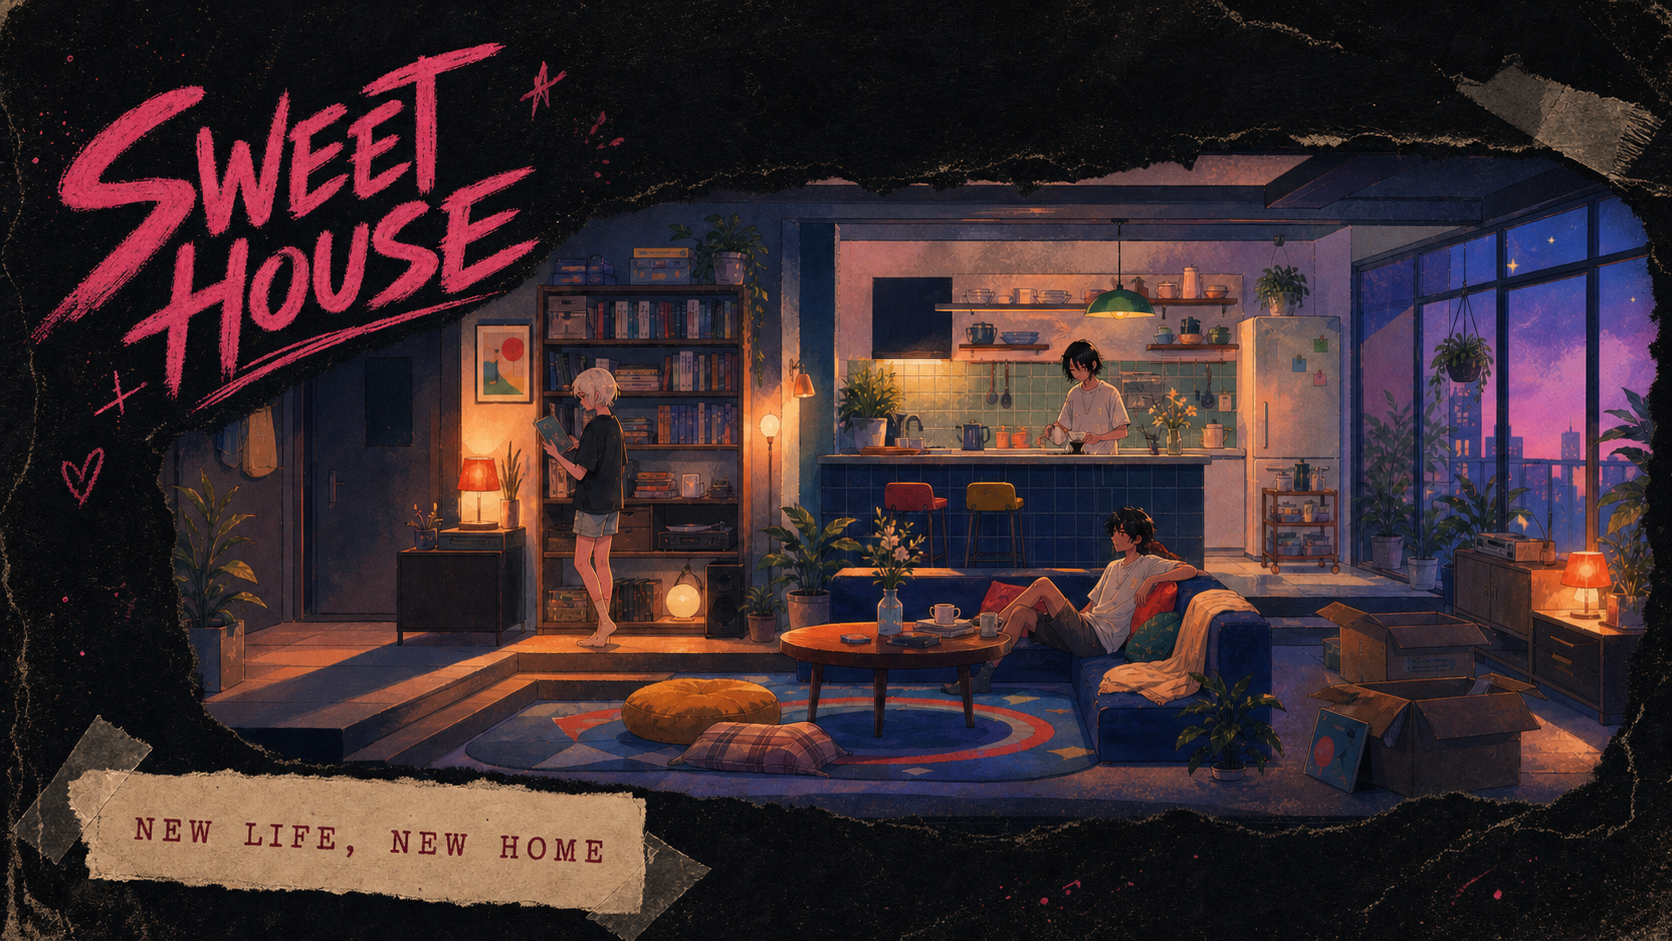
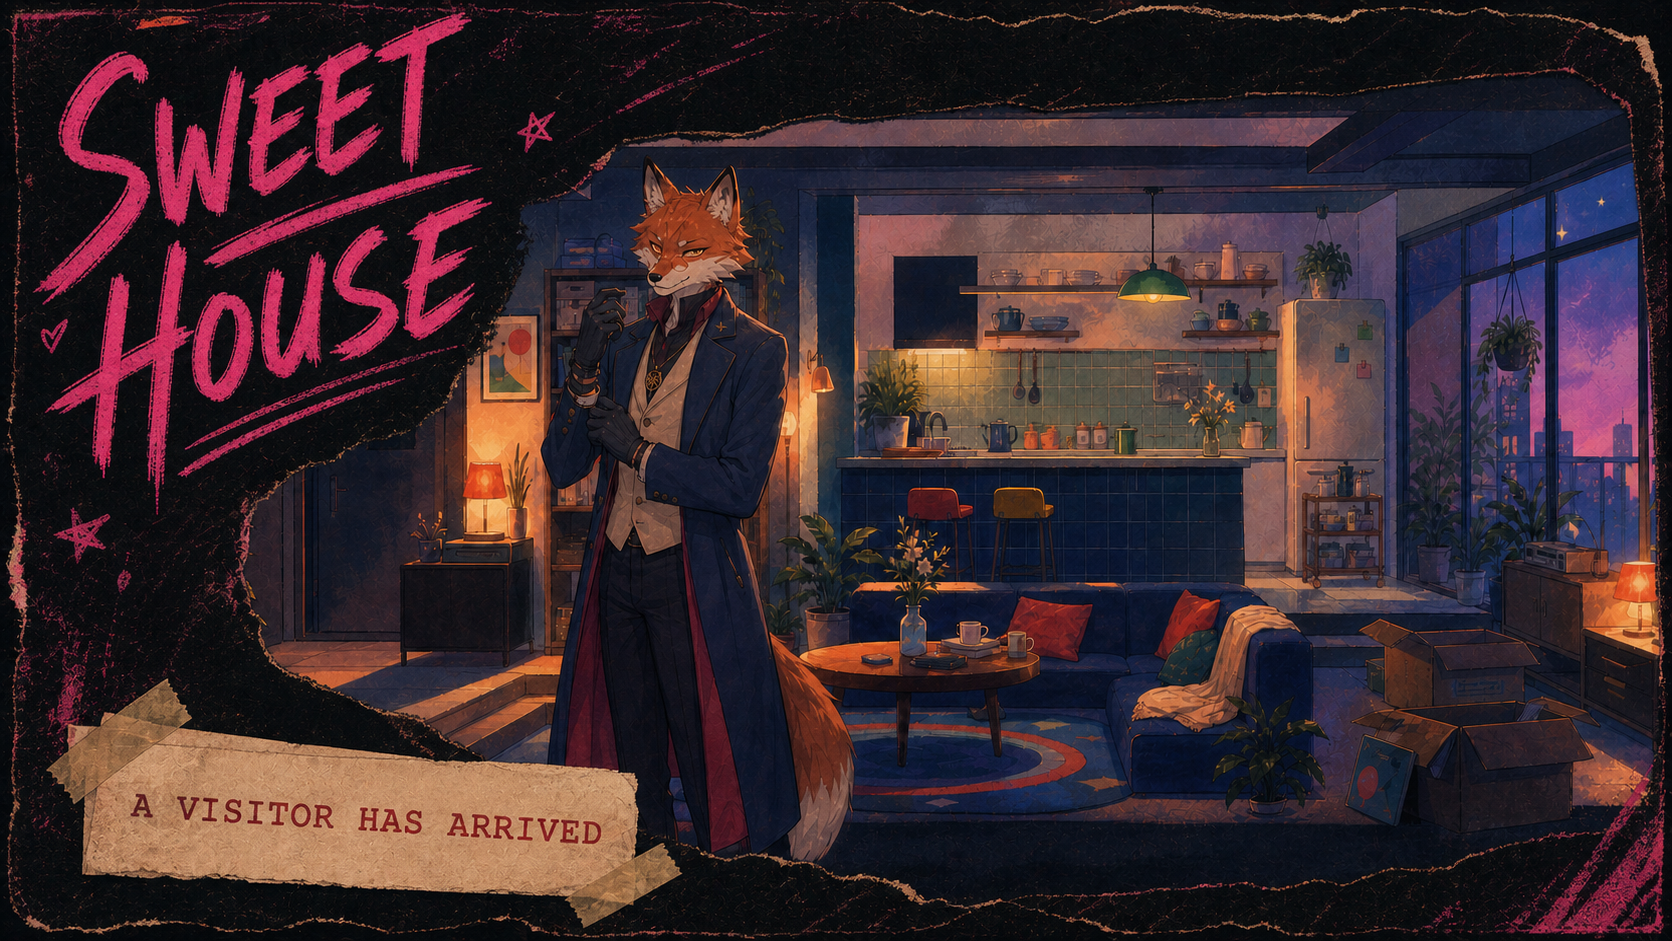
Add full visitor arrival experience

diff --git a/app/page.tsx b/app/page.tsx
@@ -22,6 +22,19 @@ const rooms = [
 
 const guests = [
   {
+    id: "lorn",
+    name: "洛恩",
+    tag: "特殊访客",
+    status: "初次来访",
+    hint: "总能从旧物中认出不属于这个时代的细节。",
+    color: "fox",
+    affinity: 12,
+    need: "一杯温热的赤茶，以及关于这栋房子的答案",
+    day: "DAY 1",
+    weekday: "MON",
+    scene: "/visitor-arrival-v1.png",
+  },
+  {
     id: "lin",
     name: "林默",
     tag: "普通访客",
@@ -30,6 +43,8 @@ const guests = [
     color: "cyan",
     affinity: 68,
     need: "一杯不过甜的热咖啡",
+    day: "DAY 3",
+    weekday: "WED",
   },
   {
     id: "yue",
@@ -40,6 +55,8 @@ const guests = [
     color: "violet",
     affinity: 42,
     need: "找到唱片《无人知晓的春天》",
+    day: "DAY 5",
+    weekday: "FRI",
   },
   {
     id: "momo",
@@ -50,6 +67,8 @@ const guests = [
     color: "amber",
     affinity: 81,
     need: "一本关于远行的旧书",
+    day: "DAY 7",
+    weekday: "SUN",
   },
 ];
 
@@ -100,11 +119,11 @@ export default function Home() {
   const [panel, setPanel] = useState<PanelKey | null>(null);
   const [history, setHistory] = useState<PanelKey[]>([]);
   const [room, setRoom] = useState("living");
-  const [guestId, setGuestId] = useState("lin");
+  const [guestId, setGuestId] = useState("lorn");
   const [phase, setPhase] = useState(2);
   const [dialogue, setDialogue] = useState(false);
   const [served, setServed] = useState<string[]>([]);
-  const [toast, setToast] = useState("欢迎回家。今晚有 3 位访客。 ");
+  const [toast, setToast] = useState("欢迎回家。本周有 4 位访客。 ");
   const [bgm, setBgm] = useState(64);
   const [sfx, setSfx] = useState(78);
   const [windowMode, setWindowMode] = useState("无边框");
@@ -207,7 +226,7 @@ export default function Home() {
         <div className="panel-content task-list">
           <div className="focus-card">
             <span className="status-pip active" />
-            <div><small>MAIN / 可服务时间</small><h3>为林默准备一杯热咖啡</h3><p>前往厨房，使用手冲咖啡台。甜度不要超过 30%。</p></div>
+            <div><small>MAIN / 特殊访客</small><h3>回应洛恩的初次来访</h3><p>先听完他的判断，再决定是否让他检查客厅里的旧物。</p></div>
             <b>01</b>
           </div>
           {["寻找月白提到的旧唱片", "整理书房中被打乱的书", "检查明日访客预告"].map((item, index) => (
@@ -283,7 +302,7 @@ export default function Home() {
     if (panel === "settings") {
       return (
         <div className="panel-content settings-layout">
-          <section><small>SAVE DATA</small><h3>Slot 01</h3><p>House LV.03 · WEEK 01 · {served.length}/3 委托推进</p><div className="button-pair"><button className="primary-button" onClick={saveGame}>保存进度</button><button className="ghost-button" onClick={loadGame}>读取存档</button></div></section>
+          <section><small>SAVE DATA</small><h3>Slot 01</h3><p>House LV.03 · WEEK 01 · {served.length}/4 委托推进</p><div className="button-pair"><button className="primary-button" onClick={saveGame}>保存进度</button><button className="ghost-button" onClick={loadGame}>读取存档</button></div></section>
           <section><small>DISPLAY</small><label>视窗模式<select value={windowMode} onChange={(event) => setWindowMode(event.target.value)}><option>无边框</option><option>全屏</option><option>窗口</option></select></label><label>分辨率<select defaultValue="2560 × 1440"><option>2560 × 1440</option><option>1920 × 1080</option><option>1600 × 900</option></select></label></section>
           <section><small>AUDIO</small><label>BGM <b>{bgm}</b><input type="range" min="0" max="100" value={bgm} onChange={(event) => setBgm(Number(event.target.value))} /></label><label>SFX <b>{sfx}</b><input type="range" min="0" max="100" value={sfx} onChange={(event) => setSfx(Number(event.target.value))} /></label></section>
           <footer><span>ESC 返回上一级</span><button onClick={() => notify("设置已应用")}>应用设置</button></footer>
@@ -301,14 +320,14 @@ export default function Home() {
 
       <header className="top-hud">
         <button className="brand-lockup" onClick={() => { setPanel(null); notify("已回到 House 主界面"); }}><span>Sweet<br />House</span><div><b>NEW CHAPTER</b><small>MEMORY LODGE / 2086</small></div></button>
-        <button className="time-card" onClick={() => openPanel("calendar")}><span className="live-dot" /><div><small>WELCOME HOME.</small><strong>本周将有 <mark>3</mark> 位访客来访</strong></div><em>{phases[phase].name} · {phases[phase].time}</em></button>
+        <button className="time-card" onClick={() => openPanel("calendar")}><span className="live-dot" /><div><small>WELCOME HOME.</small><strong>本周将有 <mark>4</mark> 位访客来访</strong></div><em>{phases[phase].name} · {phases[phase].time}</em></button>
         <div className="phase-switch" aria-label="切换时间氛围">{phases.map((item, index) => <button aria-label={item.name} className={phase === index ? "selected" : ""} key={item.code} onClick={() => { setPhase(index); notify(`时间氛围切换为${item.name}`); }}><span /></button>)}</div>
         <button className="currency" onClick={() => openPanel("market")}><small>HOUSE CREDIT</small><strong>◈ 2,480</strong><span>＋</span></button>
         <button className="week-note" onClick={() => openPanel("calendar")}><small>WEEK 01</small><strong>WEDNESDAY</strong><em>JUN 17</em></button>
       </header>
 
       <aside className="guest-rail" aria-label="访客列表">
-        <div className="rail-label"><small>THIS WEEK / 来访</small><strong>03</strong></div>
+        <div className="rail-label"><small>THIS WEEK / 来访</small><strong>04</strong></div>
         {guests.map((item, index) => <button key={item.id} className={`${guestId === item.id ? "selected" : ""} ${served.includes(item.id) ? "served" : ""}`} onClick={() => { setGuestId(item.id); setDialogue(true); }}><span className={`portrait ${item.color}`}>{item.name.slice(0, 1)}<i /></span><div><small>0{index + 1}</small><b>{item.name}</b><em>{served.includes(item.id) ? "已推进" : item.status}</em></div></button>)}
         <button className="profile-chip" onClick={() => openPanel("profile")}><span>弈</span><div><small>HOUSE KEEPER</small><b>状态稳定 · 82%</b></div></button>
       </aside>
@@ -318,7 +337,7 @@ export default function Home() {
         <div className="scene-wash" />
         <span className="art-sticker">NEW<br />HOME</span>
         <button className="stage-hotspot hotspot-device" onClick={() => openPanel("device")}><span>＋</span><div><b>{room === "kitchen" ? "手冲咖啡台" : room === "study" ? "旧书检索机" : "黑胶唱机"}</b><small>查看设备</small></div></button>
-        <div className="stage-caption"><small>CURRENT ROOM / 03</small><strong>{currentRoom.name}</strong><span>{currentRoom.note}</span></div>
+        <div className="stage-caption"><small>CURRENT ROOM / 04</small><strong>{currentRoom.name}</strong><span>{currentRoom.note}</span></div>
       </section>
 
       <aside className="right-dock" aria-label="功能菜单">
@@ -331,17 +350,24 @@ export default function Home() {
         <button className="locked-room" onClick={() => notify("仓库房间将在 House LV.04 解锁")}><small>LOCKED</small><span className="room-icon"><i /></span><strong>地下仓库</strong></button>
       </nav>
 
-      <div className="quest-peek"><span>01</span><div><small>TRACKING</small><b>为林默准备热咖啡</b><i><u style={{ width: served.includes("lin") ? "100%" : "35%" }} /></i></div><button onClick={() => openPanel("tasks")}>查看</button></div>
+      <div className="quest-peek"><span>01</span><div><small>TRACKING</small><b>回应洛恩的初次来访</b><i><u style={{ width: served.includes("lorn") ? "100%" : "35%" }} /></i></div><button onClick={() => openPanel("tasks")}>查看</button></div>
 
       {panel && <div className="panel-scrim" onClick={goBack} />}
       <aside className={`system-panel ${panel ? "open" : ""}`} aria-hidden={!panel}>
         {panel && <><header><button className="back-button" onClick={goBack} aria-label="返回">←<small>ESC</small></button><div><small>{panelMeta[panel].eyebrow}</small><h2>{panelMeta[panel].title}</h2></div><span className="panel-mark">{panelMeta[panel].mark}</span></header>{renderPanel()}</>}
       </aside>
 
-      {dialogue && <div className="dialogue-layer">
+      {dialogue && <div className={`dialogue-layer ${guest.scene ? "has-visitor-scene" : ""}`}>
+        <img className="visitor-scene" src={guest.scene ?? "/house-hub-v2.png"} alt={`${guest.name}到访 Sweet House`} draggable="false" />
+        <div className="visitor-scene-vignette" />
         <button className="dialogue-close" onClick={() => setDialogue(false)}>ESC · 结束交谈</button>
-        <div className={`dialogue-portrait ${guest.color}`}><span>{guest.name.slice(0, 1)}</span><i /></div>
-        <div className="dialogue-box"><header><small>{guest.tag}</small><strong>{guest.name}</strong><em>信赖 {guest.affinity}%</em></header><p>{served.includes(guest.id) ? "谢谢。这里好像比刚才更暖了一点……也许我会再想起些什么。" : guest.id === "lin" ? "可以麻烦你吗？今天想喝一点暖的东西。不要太甜——我想记住它原本的味道。" : guest.id === "yue" ? "唱机下面有一道很浅的划痕。你真的不记得，是谁留下的吗？" : "我在书架上留了一个空位。等你找到那本书，就放在那里吧。"}</p><div className="dialogue-actions"><button onClick={() => notify("已记录新的访客线索")}>追问线索</button><button className="primary-button" disabled={served.includes(guest.id)} onClick={serveGuest}>{served.includes(guest.id) ? "委托已推进" : "回应委托"}</button></div></div>
+        {!guest.scene && <div className={`dialogue-portrait ${guest.color}`}><span>{guest.name.slice(0, 1)}</span><i /></div>}
+        <aside className="visitor-week-panel" aria-label="本周访客">
+          <header><small>WEEK 01</small><strong>VISITOR THIS WEEK</strong></header>
+          {guests.map((item) => <button className={guest.id === item.id ? "selected" : ""} key={item.id} onClick={() => setGuestId(item.id)}><span className={`portrait mini ${item.color}`}>{item.name.slice(0, 1)}</span><div><b>{item.name}</b><small>{item.day} · {item.weekday}</small></div>{item.id === "lorn" && <em>NEW</em>}</button>)}
+        </aside>
+        <div className="dialogue-box"><header><small>{guest.tag}</small><strong>{guest.name}</strong><em>信赖 {guest.affinity}%</em></header><p>{served.includes(guest.id) ? "很好。看来这栋房子确实愿意回应你——那么，我们可以谈谈下一件事了。" : guest.id === "lorn" ? "看来你已经开始安顿下来了。需要我帮你认一认，这间屋子里不属于你的东西吗？" : guest.id === "lin" ? "可以麻烦你吗？今天想喝一点暖的东西。不要太甜——我想记住它原本的味道。" : guest.id === "yue" ? "唱机下面有一道很浅的划痕。你真的不记得，是谁留下的吗？" : "我在书架上留了一个空位。等你找到那本书，就放在那里吧。"}</p><div className="dialogue-actions"><button onClick={() => notify("已记录新的访客线索")}>追问线索</button><button className="primary-button" disabled={served.includes(guest.id)} onClick={serveGuest}>{served.includes(guest.id) ? "委托已推进" : "回应委托"}</button></div></div>
+        <nav className="visitor-tools" aria-label="家具快捷栏"><div><small>DECORATE YOUR ROOM</small><span>选择物件进行摆放</span></div>{["沙发","边桌","座椅","盆栽","书柜","落地灯"].map((item, index) => <button key={item} onClick={() => notify(`已选择家具：${item}`)}><i className={`furniture-shape shape-${index}`} /><small>{item}</small></button>)}<button className="end-week" onClick={() => { setDialogue(false); notify("本周结算将在正式版本开放"); }}>结束本周 →</button></nav>
       </div>}
 
       {toast && <div className="toast"><span />{toast}</div>}

diff --git a/app/globals.css b/app/globals.css
@@ -364,3 +364,141 @@ button { color: inherit; }
   .stage-caption { left:4%; bottom:4%; padding:7px 10px; }.stage-caption span { width:100%; }
   .system-panel { width:100vw; }
 }
+
+/* visitor arrival flow */
+.portrait.fox { background:linear-gradient(145deg,#d36c3f,#6c3448); }
+.dialogue-layer {
+  overflow:hidden;
+  background:#020206;
+}
+.visitor-scene {
+  position:absolute;
+  z-index:1;
+  left:3.5%;
+  right:15.5%;
+  top:6.5%;
+  width:81%;
+  height:75%;
+  object-fit:cover;
+  object-position:center 51%;
+  border:1px solid rgba(225,207,189,.15);
+  box-shadow:0 18px 70px rgba(0,0,0,.62);
+  user-select:none;
+}
+.visitor-scene-vignette {
+  position:absolute;
+  z-index:2;
+  inset:0;
+  pointer-events:none;
+  background:
+    linear-gradient(90deg,rgba(1,2,6,.52),transparent 18%,transparent 72%,rgba(1,2,6,.92) 88%),
+    linear-gradient(0deg,rgba(1,2,6,.98) 0 15%,transparent 31%,transparent 80%,rgba(1,2,6,.8));
+}
+.dialogue-close { z-index:55; color:#d8c9c0; }
+.dialogue-portrait { z-index:8; }
+.visitor-week-panel {
+  position:absolute;
+  z-index:52;
+  top:11%;
+  right:2.2%;
+  bottom:18%;
+  width:17%;
+  padding:15px 11px;
+  background:rgba(4,4,8,.78);
+  border-left:1px solid rgba(239,61,123,.22);
+  backdrop-filter:blur(8px);
+}
+.visitor-week-panel>header { margin-bottom:10px; padding:0 5px 11px; border-bottom:1px solid rgba(225,207,189,.12); }
+.visitor-week-panel>header small,.visitor-week-panel>header strong { display:block; }
+.visitor-week-panel>header small { color:var(--pink); font:8px var(--font-hand); letter-spacing:.13em; }
+.visitor-week-panel>header strong { margin-top:3px; color:#d6c8c0; font:8px var(--font-mono); letter-spacing:.12em; }
+.visitor-week-panel>button {
+  position:relative;
+  display:grid;
+  grid-template-columns:48px 1fr;
+  align-items:center;
+  gap:10px;
+  width:100%;
+  padding:8px 6px;
+  border:0;
+  border-bottom:1px solid rgba(225,207,189,.08);
+  background:transparent;
+  text-align:left;
+  cursor:pointer;
+  transition:.2s ease;
+}
+.visitor-week-panel>button:hover,.visitor-week-panel>button.selected { background:linear-gradient(90deg,rgba(155,37,71,.35),transparent); transform:translateX(-4px); }
+.visitor-week-panel .portrait.mini { width:44px; height:44px; }
+.visitor-week-panel b,.visitor-week-panel small { display:block; }
+.visitor-week-panel b { font:700 11px var(--font-hand); letter-spacing:.08em; }
+.visitor-week-panel small { margin-top:3px; color:#837981; font:7px var(--font-mono); }
+.visitor-week-panel em { position:absolute; right:6px; top:7px; color:var(--pink); font:7px var(--font-mono); font-style:normal; }
+.dialogue-layer .dialogue-box {
+  z-index:53;
+  left:22%;
+  right:22.5%;
+  bottom:17.5%;
+  padding:17px 24px;
+  background:rgba(4,4,8,.9);
+  border-color:rgba(225,207,189,.19);
+}
+.dialogue-layer .dialogue-box p { min-height:40px; margin-block:8px 12px; }
+.dialogue-layer.has-visitor-scene .dialogue-box::before { background:var(--pink); }
+.visitor-tools {
+  position:absolute;
+  z-index:54;
+  left:2.5%;
+  right:2.2%;
+  bottom:2.2%;
+  height:98px;
+  display:flex;
+  align-items:center;
+  gap:7px;
+  padding:8px;
+  border-top:1px solid rgba(225,207,189,.12);
+  background:rgba(2,2,6,.86);
+  backdrop-filter:blur(10px);
+}
+.visitor-tools>div { width:210px; padding:0 16px 0 5px; }
+.visitor-tools>div small,.visitor-tools>div span { display:block; }
+.visitor-tools>div small { color:#eadcd2; font:10px var(--font-mono); letter-spacing:.08em; }
+.visitor-tools>div span { margin-top:7px; color:#6772b2; font:8px var(--font-mono); }
+.visitor-tools>button:not(.end-week) {
+  position:relative;
+  width:73px;
+  height:73px;
+  padding:5px;
+  border:1px solid rgba(225,207,189,.16);
+  border-radius:7px;
+  background:#25242b;
+  cursor:pointer;
+}
+.visitor-tools>button:not(.end-week):hover { border-color:rgba(239,61,123,.55); transform:translateY(-4px); }
+.visitor-tools button small { position:absolute; left:0; right:0; bottom:4px; color:#b6aaa5; font:7px var(--font-ui); }
+.furniture-shape { position:relative; display:block; width:42px; height:38px; margin:2px auto; }
+.shape-0::before { content:""; position:absolute; left:3px; right:3px; bottom:5px; height:18px; border-radius:8px 8px 3px 3px; background:#668360; box-shadow:0 -8px 0 #77936e; }
+.shape-1::before { content:""; position:absolute; left:4px; right:4px; top:7px; height:10px; border-radius:50%; background:#b07b5c; box-shadow:8px 18px 0 -3px #745347,-8px 18px 0 -3px #745347; }
+.shape-2::before { content:""; position:absolute; left:9px; top:4px; width:24px; height:27px; border-radius:3px 3px 8px 8px; background:#c79a4f; transform:skew(-6deg); }
+.shape-3::before { content:""; position:absolute; left:12px; bottom:4px; width:18px; height:15px; background:#7d7772; clip-path:polygon(8% 0,92% 0,75% 100%,25% 100%); }.shape-3::after { content:""; position:absolute; left:6px; top:2px; width:30px; height:22px; background:#68835b; clip-path:polygon(50% 100%,0 35%,38% 42%,50% 0,63% 43%,100% 30%); }
+.shape-4::before { content:""; position:absolute; inset:3px 7px 7px; border:3px solid #ad5b43; box-shadow:inset 0 -9px #ad5b43; }
+.shape-5::before { content:""; position:absolute; left:17px; top:5px; width:5px; height:25px; background:#88705e; box-shadow:0 22px 0 8px #9a4c5d; }.shape-5::after { content:""; position:absolute; left:7px; top:0; width:25px; height:13px; border-radius:50% 50% 5px 5px; background:#b45368; }
+.visitor-tools .end-week {
+  margin-left:auto;
+  min-width:145px;
+  height:48px;
+  padding:0 18px;
+  border:0;
+  color:#381b29;
+  background:#d85b7e;
+  clip-path:polygon(2% 9%,96% 0,100% 86%,92% 100%,0 92%);
+  font:700 10px var(--font-hand);
+  cursor:pointer;
+}
+
+@media (max-width:900px) {
+  .visitor-scene { left:0; right:0; width:100%; height:77%; object-position:42% 50%; }
+  .visitor-week-panel { display:none; }
+  .dialogue-layer .dialogue-box { left:5%; right:5%; bottom:17%; }
+  .visitor-tools { left:0; right:0; overflow-x:auto; }
+  .visitor-tools>div { min-width:145px; }.visitor-tools>button:not(.end-week){min-width:65px}.visitor-tools .end-week{min-width:120px}
+}

diff --git a/app/layout.tsx b/app/layout.tsx
@@ -20,13 +20,13 @@ export const metadata: Metadata = {
   metadataBase: new URL("https://sweet-house-meta-demo.fanncai888.chatgpt.site"),
   openGraph: {
     title: "Sweet House · New Life, New Home",
-    description: "手绘叙事经营游戏的 House 局外 UI/UX 交互原型。",
-    images: [{ url: "/og.png", width: 1680, height: 945, alt: "Sweet House 暮色室内与手绘标题" }],
+    description: "手绘叙事经营游戏的访客到访与 House 局外 UI/UX 原型。",
+    images: [{ url: "/og.png", width: 1680, height: 945, alt: "红狐访客抵达 Sweet House" }],
   },
   twitter: {
     card: "summary_large_image",
     title: "Sweet House · New Life, New Home",
-    description: "手绘叙事经营游戏的 House 局外 UI/UX 交互原型。",
+    description: "手绘叙事经营游戏的访客到访与 House 局外 UI/UX 原型。",
     images: ["/og.png"],
   },
 };
